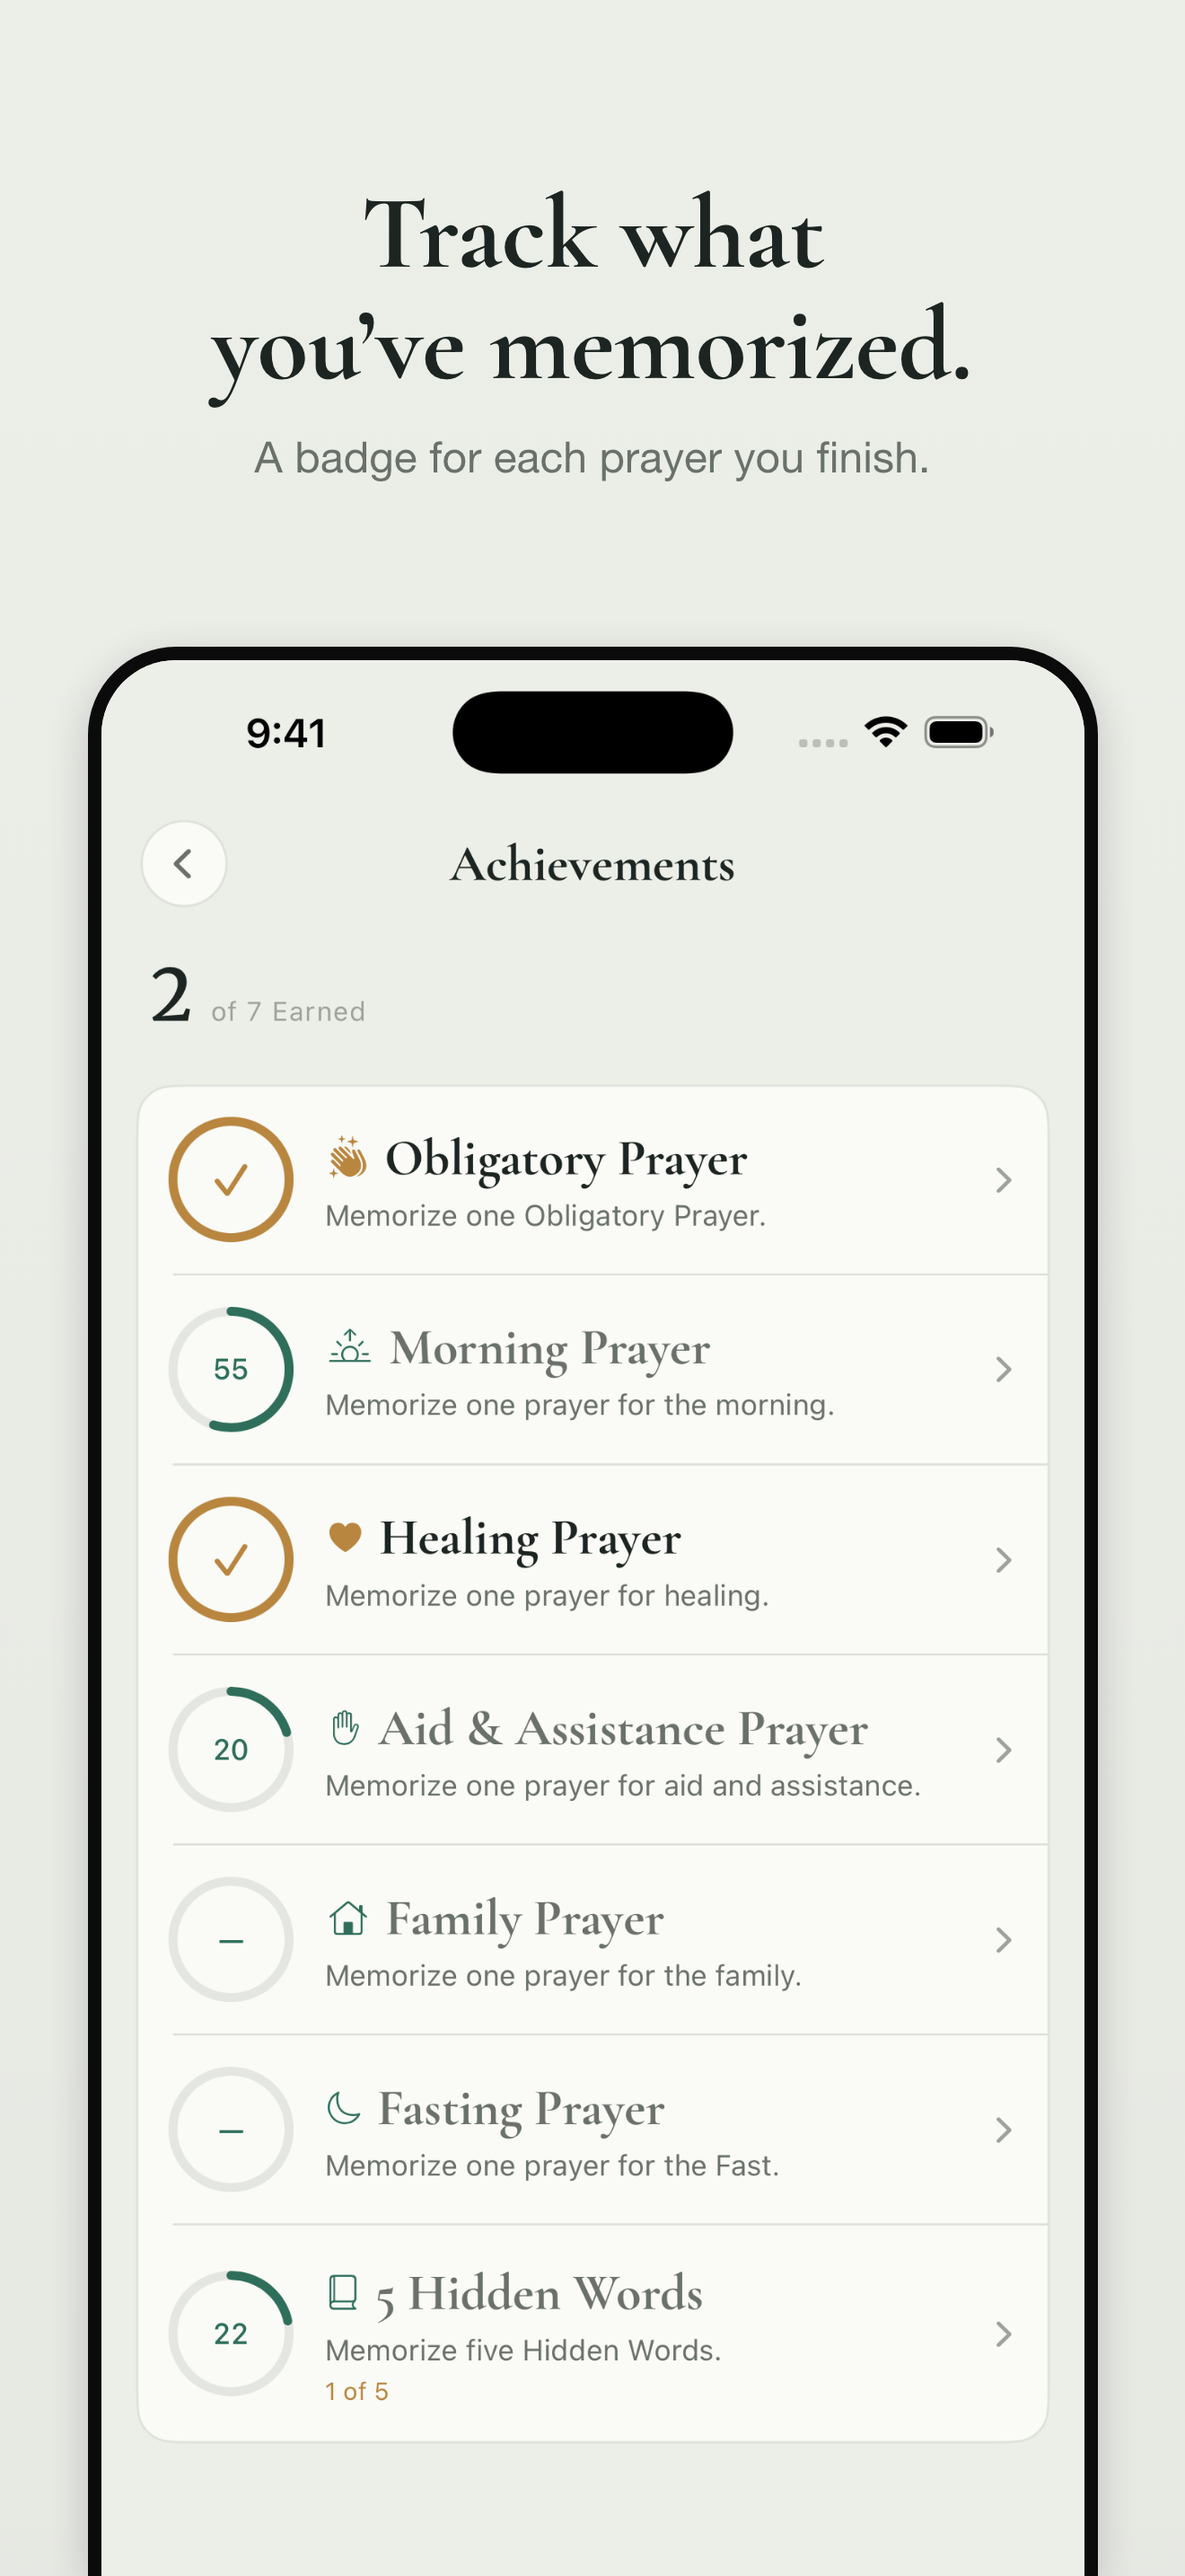
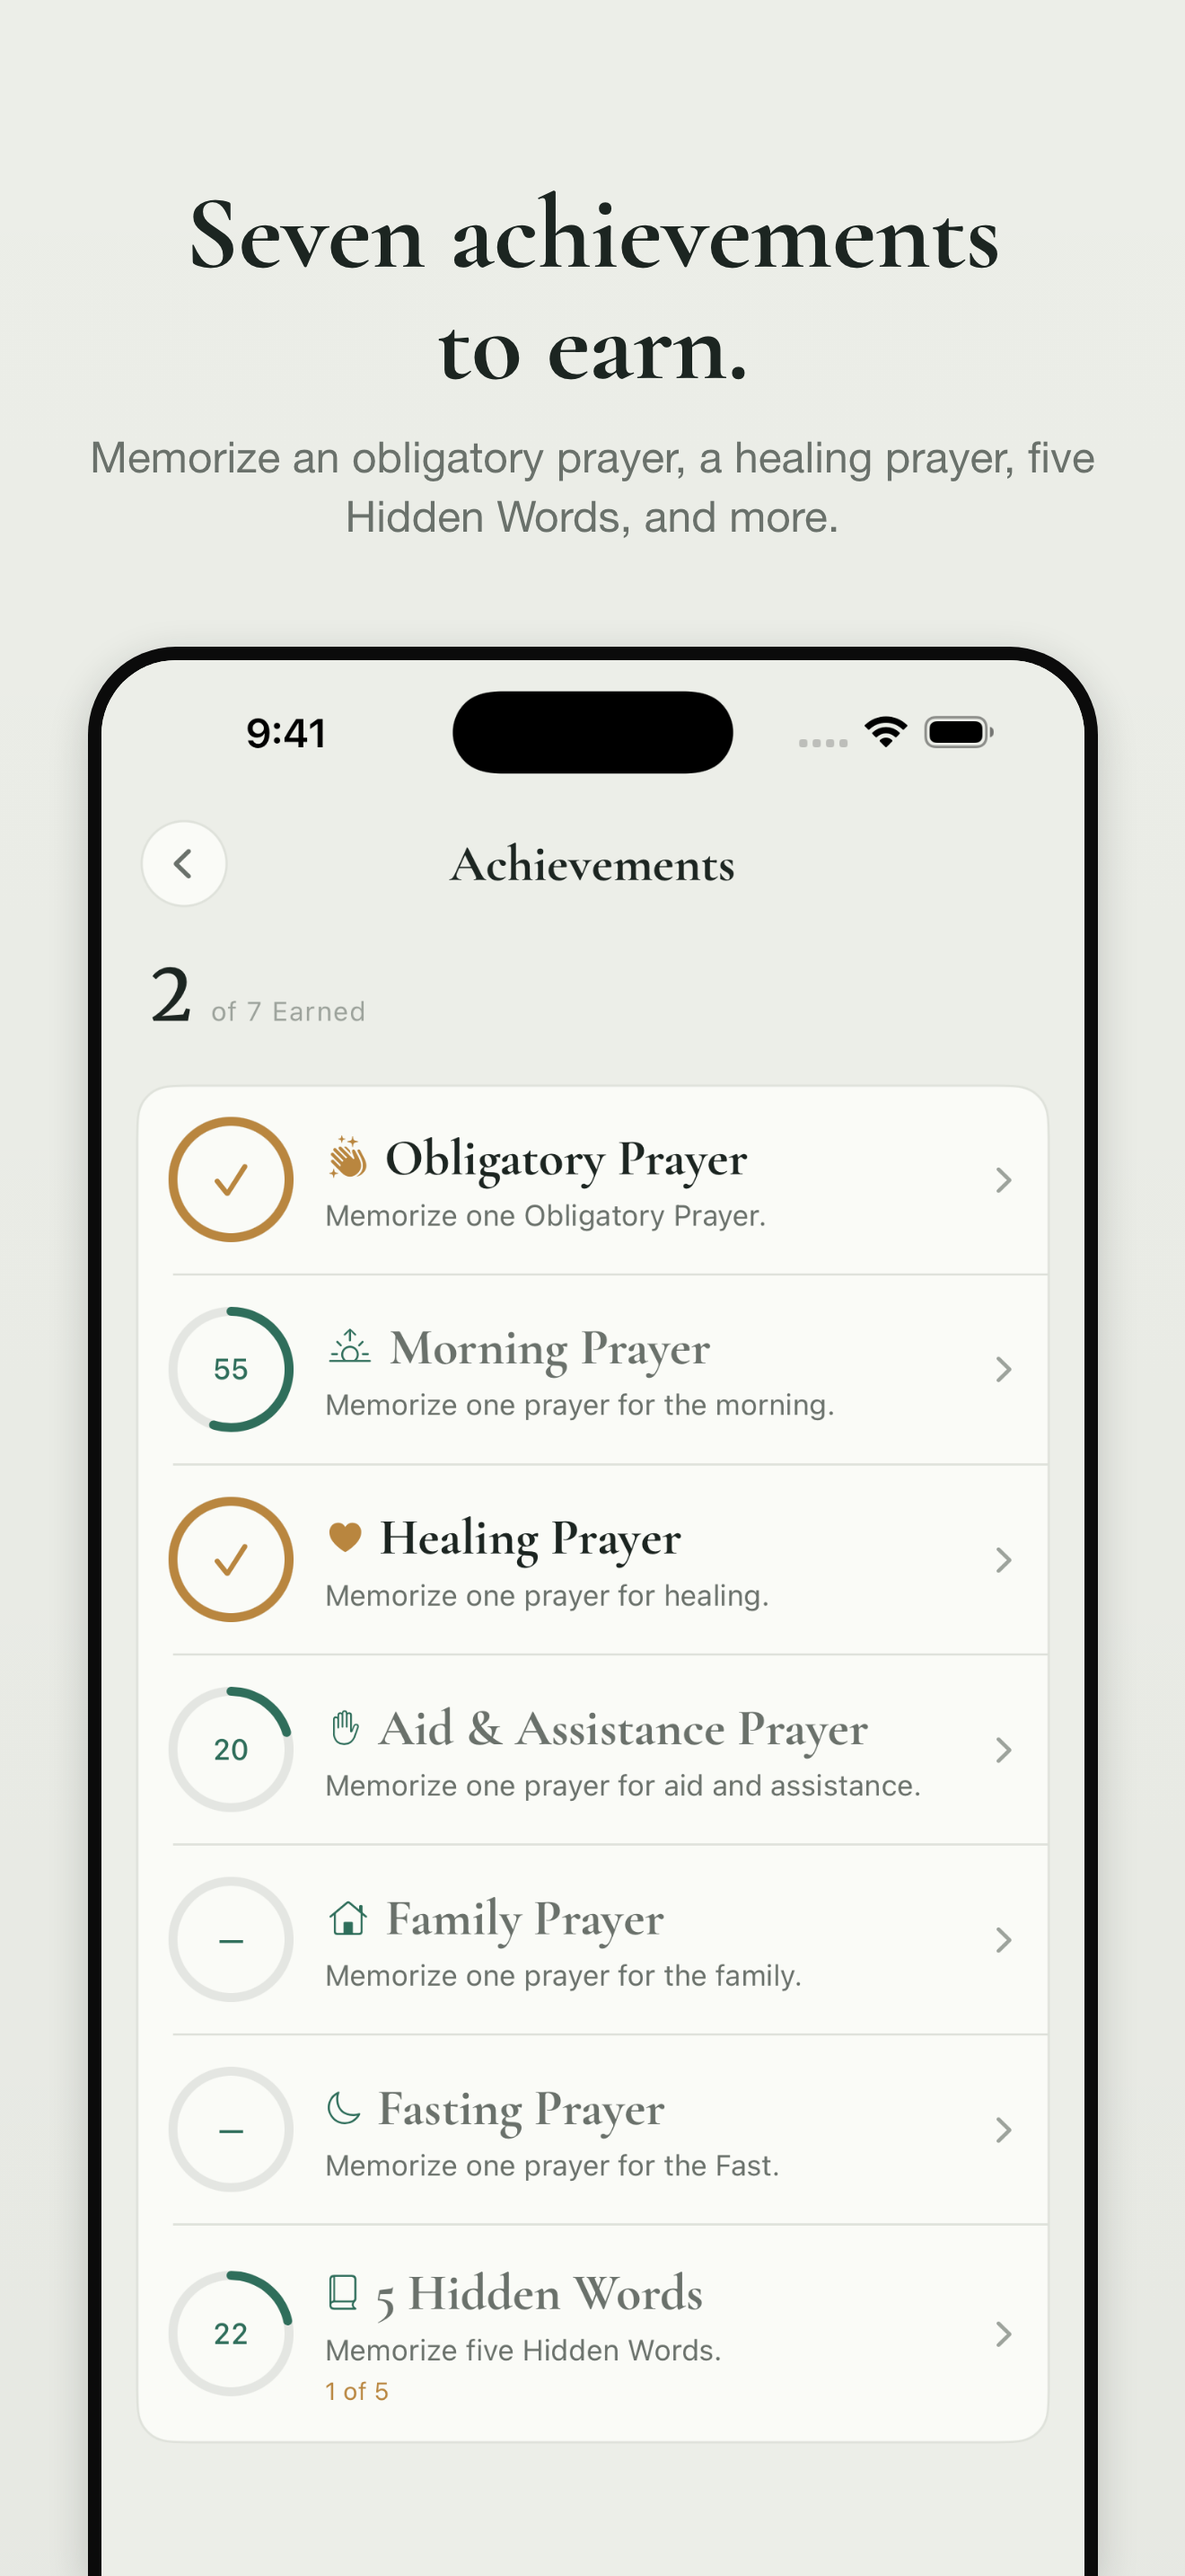
Correct the claims on the preview tiles
The achievements tile promised a badge per prayer; the catalog is seven
category achievements. Checking the rest turned up two more: the library
holds 225 prayers, not the 473 the listing had been claiming, and the app
does schedule reminders when you ask it to, so "no notifications" was false.

diff --git a/Design/StoreFrames/generate_store_frames.py b/Design/StoreFrames/generate_store_frames.py
@@ -69,14 +69,14 @@ TILES = [
          headline="Tap a word\nto hide it.",
          subhead="Read what’s left out loud. Hide a few more each time you come back."),
     dict(source="3-built-in-library.png",
-         headline="473 prayers,\nbuilt in.",
-         subhead="All 153 Hidden Words and Ruhi passages too. Or paste your own text."),
+         headline="225 prayers,\nbuilt in.",
+         subhead="All 153 Hidden Words and 24 Ruhi passages too. Or paste your own text."),
     dict(source="4-preview.png",
          headline="Read a prayer\nbefore you start.",
          subhead="Open anything in the library and read it through first."),
     dict(source="5-dark.png", theme="dark",
          headline="Works in dark mode.",
-         subhead="No account, no ads, and no notifications."),
+         subhead="No account and no ads. Reminders only if you turn them on."),
     dict(source="6-library-dark.png", theme="dark",
          headline="Everything stays\non your iPhone.",
          subhead="No sign-in, no sync, no tracking."),
@@ -84,8 +84,8 @@ TILES = [
          headline="All 153\nHidden Words.",
          subhead="From the Arabic and from the Persian, complete and searchable."),
     dict(source="8-achievements.png",
-         headline="Track what\nyou’ve memorized.",
-         subhead="A badge for each prayer you finish."),
+         headline="Seven achievements\nto earn.",
+         subhead="Memorize an obligatory prayer, a healing prayer, five Hidden Words, and more."),
 ]
 
 PAGE = """<!doctype html>

diff --git a/store-listing.md b/store-listing.md
@@ -10,7 +10,7 @@ Memorize Bahá'í prayers
 bahai,writings,hidden,words,ruhi,quotes,bahaullah,abdulbaha,obligatory,faith,scripture,recite
 
 ## Promotional text (170)
-473 prayers, all 153 Hidden Words, and Ruhi Book 1 — built in. Hide a word, recite what's left, and let the passage teach itself to you.
+225 prayers, all 153 Hidden Words, and Ruhi Book 1 — built in. Hide a word, recite what's left, and let the passage teach itself to you.
 
 ## Description (4000)
 Verses turns prayers you love into prayers you know by heart.
@@ -18,7 +18,7 @@ Verses turns prayers you love into prayers you know by heart.
 Tap a word to hide it. What's left is a prompt — read the passage aloud and your memory fills the gap. Hide a few more each time you return, until the page is empty and the prayer is yours.
 
 THE LIBRARY IS ALREADY THERE
-• 473 prayers — obligatory, general, occasional, and special tablets
+• 225 prayers — obligatory, general, occasional, and special tablets
 • The Hidden Words of Bahá'u'lláh, all 153
 • Quotations from Ruhi Book 1
 • Writings of Bahá'u'lláh, 'Abdu'l-Bahá, and the Báb

diff --git a/Design/StoreFrames/README.md b/Design/StoreFrames/README.md
@@ -34,6 +34,12 @@ differ — its canvas is far squarer, so headline and phone both have to shrink.
 results, at roughly 150px wide, where the subhead is an illegible grey band. Keep the
 headline to five words or fewer and let it say what the screen does.
 
+**Every claim in the copy has to hold against the build, not against the last listing.**
+The counts are hardcoded here, so re-derive them from `library.json` whenever it is rebuilt —
+225 prayers, 153 Hidden Words, 24 Ruhi passages at the time of writing — and check that
+feature claims match the app (reminders exist, so "no notifications" is false; the
+achievement tile names a count that `AchievementCatalog.all` has to still agree with).
+
 **The phone bleeds off the bottom on purpose.** Fitting the whole device on the canvas
 would shrink the UI to the point where nothing in it can be read. The screenshot is scaled
 to the bezel's inner width and whatever runs past the bottom edge is cropped.
